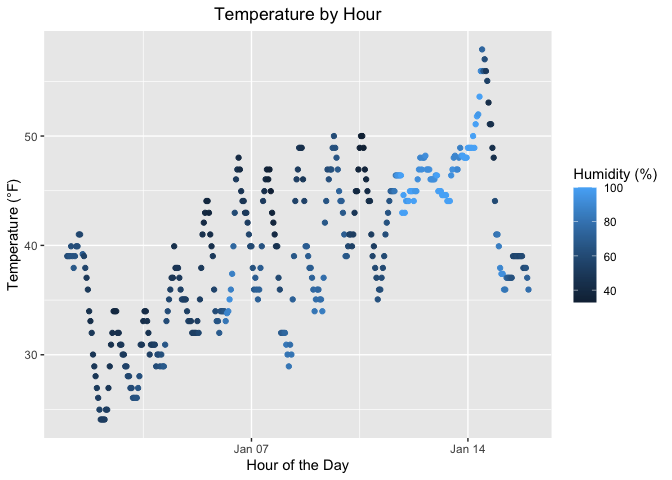
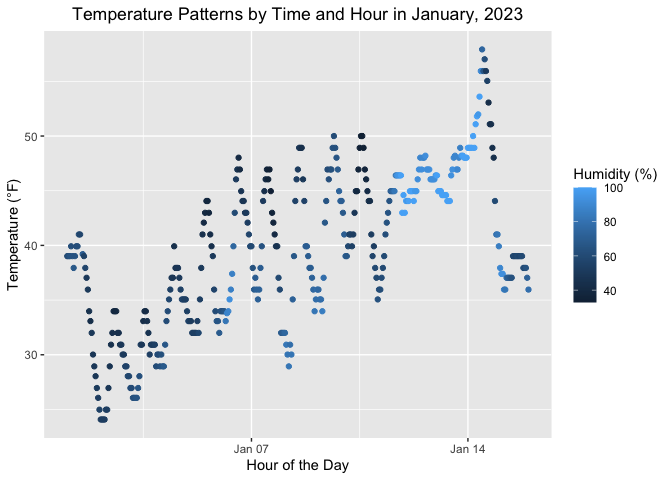
Draft of problem 2 + general formatting

Changed region(s): [[0.0938, 0.0, 0.7812, 0.0625]]

diff --git a/p8105_hw1_smo2147.md b/p8105_hw1_smo2147.md
@@ -30,10 +30,12 @@ variable that stands out in this dataset is the **temperature** variable
 `wind_speed`), which are critical in regulating/influencing temperature
 levels. It is important to note that the average temperature has a mean
 of **39.5821229** in Fahrenheit. Moreover, the average hour is
-**11.5307263** and the average wind speed is **8.2258269**.
+**11.5307263** and the average wind speed is **8.2258269** in the month
+of January, 2023.
 
-The following table describes variables that were also used to capture
-observations in weather patterns in the month of January, year 2023:
+The following table describes the remaining variables that were also
+used to capture observations in weather patterns in the month of
+January, year 2023:
 
 | Variable    | Description                                         |
 |-------------|-----------------------------------------------------|
@@ -80,7 +82,7 @@ ggplot(
     x = "Hour of the Day", 
     y = "Temperature (°F)", 
     color = "Humidity (%)") +
-  ggtitle("Temperature by Hour") +
+  ggtitle("Temperature Patterns by Time and Hour in January, 2023") +
   theme(plot.title 
         = element_text
         (hjust = 0.5)
@@ -89,12 +91,66 @@ ggplot(
 
 ![](p8105_hw1_smo2147_files/figure-gfm/unnamed-chunk-2-1.png)<!-- -->
 
-This scatterplot is depicts temperature patterns over time, as well as
-changes in humidity levels throughout January. As the temperature rises
-over the course of the month, humidity levels also tend to increase. It
-is important to note that humidity levels are generally lower in the
-mornings and higher in the afternoons, reflecting daily fluctuations in
-the temperature. This could be caused by rises in the sun’s temperature
-and cooling of the Earth’s surface.
+This scatterplot depicts temperature patterns over time, as well as
+changes in humidity levels throughout the month of January in 2023. As
+the temperature rises by the hour over the course of the month, humidity
+levels also tend to increase. It is important to note that humidity
+levels are generally lower in the mornings and higher in the afternoons,
+reflecting daily fluctuations in the temperature. This could be caused
+by rises in the sun’s temperature and cooling of the Earth’s surface.
 
 # Problem 2
+
+``` r
+set.seed(123)
+
+rsamp_df = tibble(
+  norm_rsamp = rnorm(10, mean = 0, sd = 1),
+  gt_zero = norm_rsamp > 0,
+  char_vec = as.character(letters[1:10]),
+  factor_vec = factor(
+    sample(c("Level 1", "Level 2", "Level 3"), 10, TRUE),
+  levels = c("Level 1", "Level 2", "Level 3")
+  )
+)
+```
+
+Let’s now calculate the mean for each variable in `rsamp_df`
+
+``` r
+rsamp_df |> 
+  pull(norm_rsamp) |> 
+  mean()
+```
+
+    ## [1] 0.07462564
+
+``` r
+rsamp_df |> 
+  pull(gt_zero) |> 
+  mean()
+```
+
+    ## [1] 0.5
+
+``` r
+rsamp_df |> 
+  pull(char_vec) |> 
+  mean()
+```
+
+    ## Warning in mean.default(pull(rsamp_df, char_vec)): argument is not numeric or
+    ## logical: returning NA
+
+    ## [1] NA
+
+``` r
+rsamp_df |> 
+  pull(factor_vec) |> 
+  mean()
+```
+
+    ## Warning in mean.default(pull(rsamp_df, factor_vec)): argument is not numeric or
+    ## logical: returning NA
+
+    ## [1] NA
